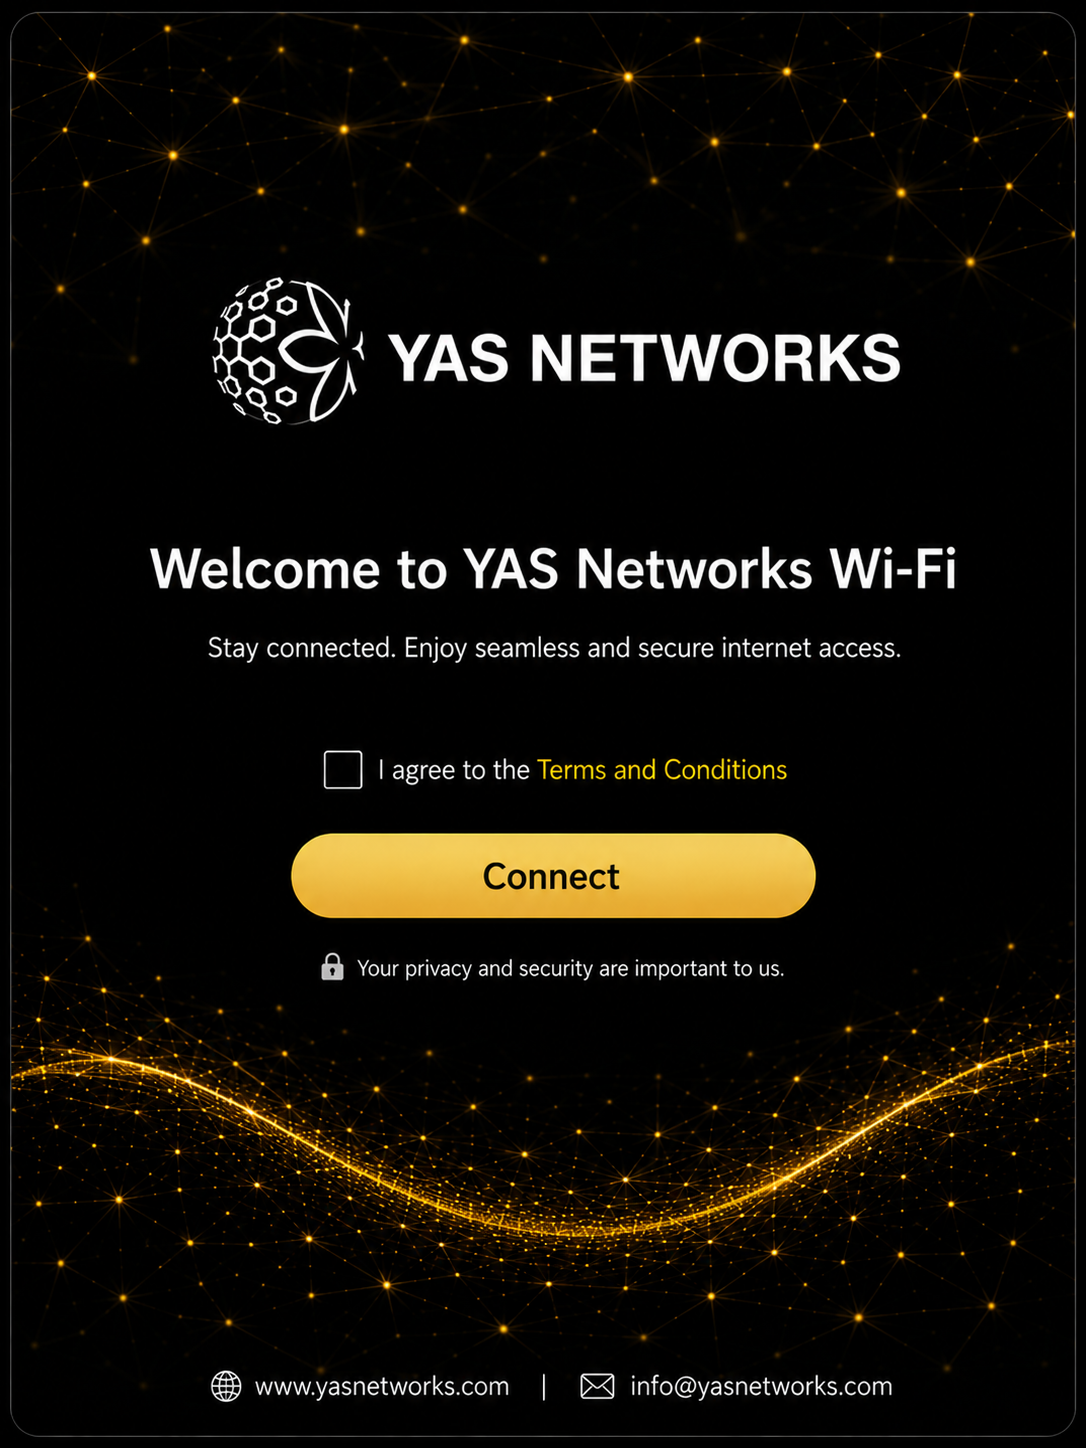
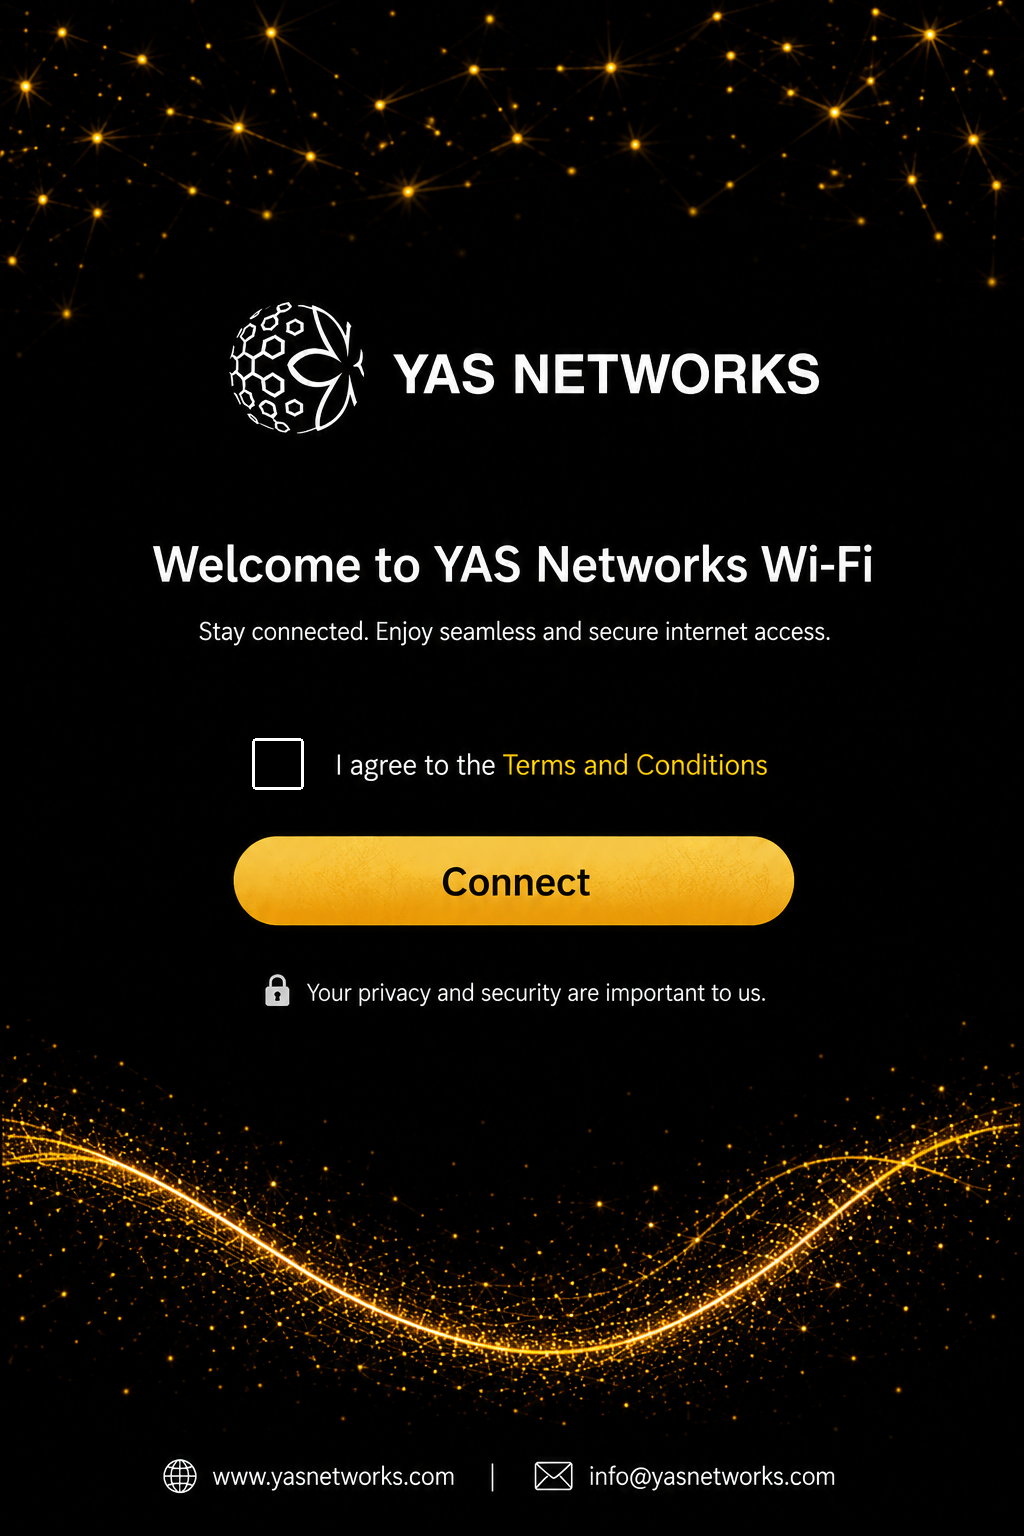
Add files via upload

diff --git a/index.html b/index.html
@@ -6,7 +6,6 @@
 <title>YAS Networks Wi-Fi</title>
 
 <style>
-
 html,body{
 margin:0;
 padding:0;
@@ -26,10 +25,10 @@ display:block;
 
 .checkbox{
 position:absolute;
-left:28.9%;
-top:50.85%;
-width:24px;
-height:24px;
+left:24.7%;
+top:48.1%;
+width:5%;
+height:3.4%;
 z-index:1000;
 cursor:pointer;
 
@@ -45,33 +44,33 @@ outline:none;
 .checkbox:checked::before{
 content:"✓";
 color:#f3c54b;
-font-size:18px;
+font-size:34px;
 font-weight:bold;
 position:absolute;
-left:4px;
-top:0px;
+left:9%;
+top:-24%;
+line-height:1;
 }
 
 .terms-link{
 position:absolute;
-left:47%;
-top:51%;
-width:28%;
-height:4%;
+left:49%;
+top:48.6%;
+width:29%;
+height:3%;
 display:block;
 z-index:900;
 }
 
 .connect-link{
 position:absolute;
-left:27%;
-top:56%;
-width:46%;
-height:7%;
+left:22.7%;
+top:54.5%;
+width:55%;
+height:5.8%;
 display:block;
 z-index:900;
 }
-
 </style>
 </head>
 
@@ -79,35 +78,35 @@ z-index:900;
 
 <div class="page">
 
-<img src="Page 1.png" class="bg">
+<img src="Page 1.png" class="bg" alt="YAS Networks Wi-Fi">
 
 <input type="checkbox" class="checkbox" id="agree">
 
-<a href="terms.html" class="terms-link"></a>
+<a href="terms.html" class="terms-link" aria-label="Terms and Conditions"></a>
 
-<a href="#" class="connect-link" onclick="connectNow(event)"></a>
+<a href="#" class="connect-link" onclick="connectNow(event)" aria-label="Connect"></a>
 
 </div>
 
 <script>
 function connectNow(event){
-  event.preventDefault();
+event.preventDefault();
 
-  if(!document.getElementById('agree').checked){
-    alert('Please accept the Terms and Conditions.');
-    return;
-  }
+if(!document.getElementById('agree').checked){
+alert('Please accept the Terms and Conditions.');
+return;
+}
 
-  const params = new URLSearchParams(window.location.search);
-  const baseGrantUrl = params.get("base_grant_url");
-  const continueUrl = params.get("user_continue_url") || "https://yasnetworks.com";
+const params = new URLSearchParams(window.location.search);
+const baseGrantUrl = params.get("base_grant_url");
+const continueUrl = params.get("user_continue_url") || "https://yasnetworks.com";
 
-  if(!baseGrantUrl){
-    alert("Meraki authentication URL was not found. Please reopen this page through the Wi-Fi splash portal.");
-    return;
-  }
+if(!baseGrantUrl){
+window.location.href = "https://yasnetworks.com";
+return;
+}
 
-  window.location.href = baseGrantUrl + "?continue_url=" + encodeURIComponent(continueUrl);
+window.location.href = baseGrantUrl + "?continue_url=" + encodeURIComponent(continueUrl);
 }
 </script>
 